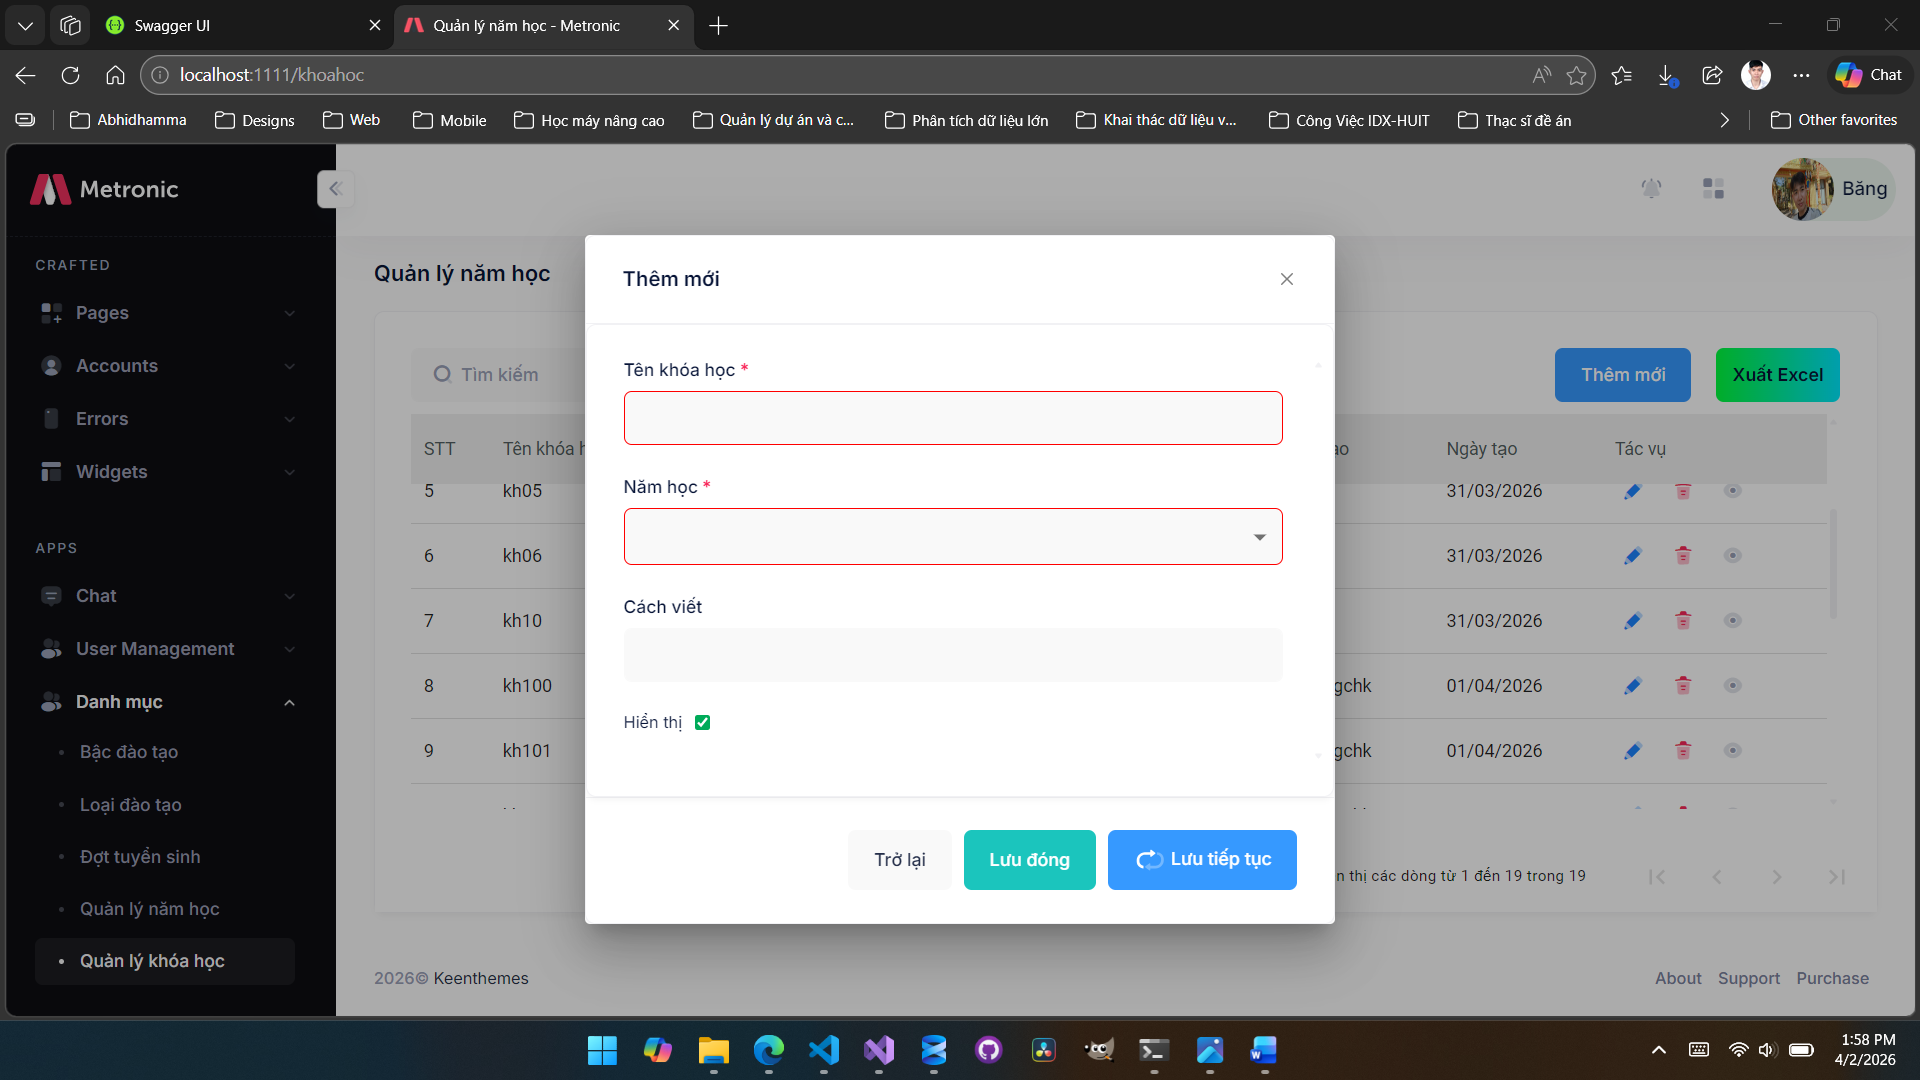
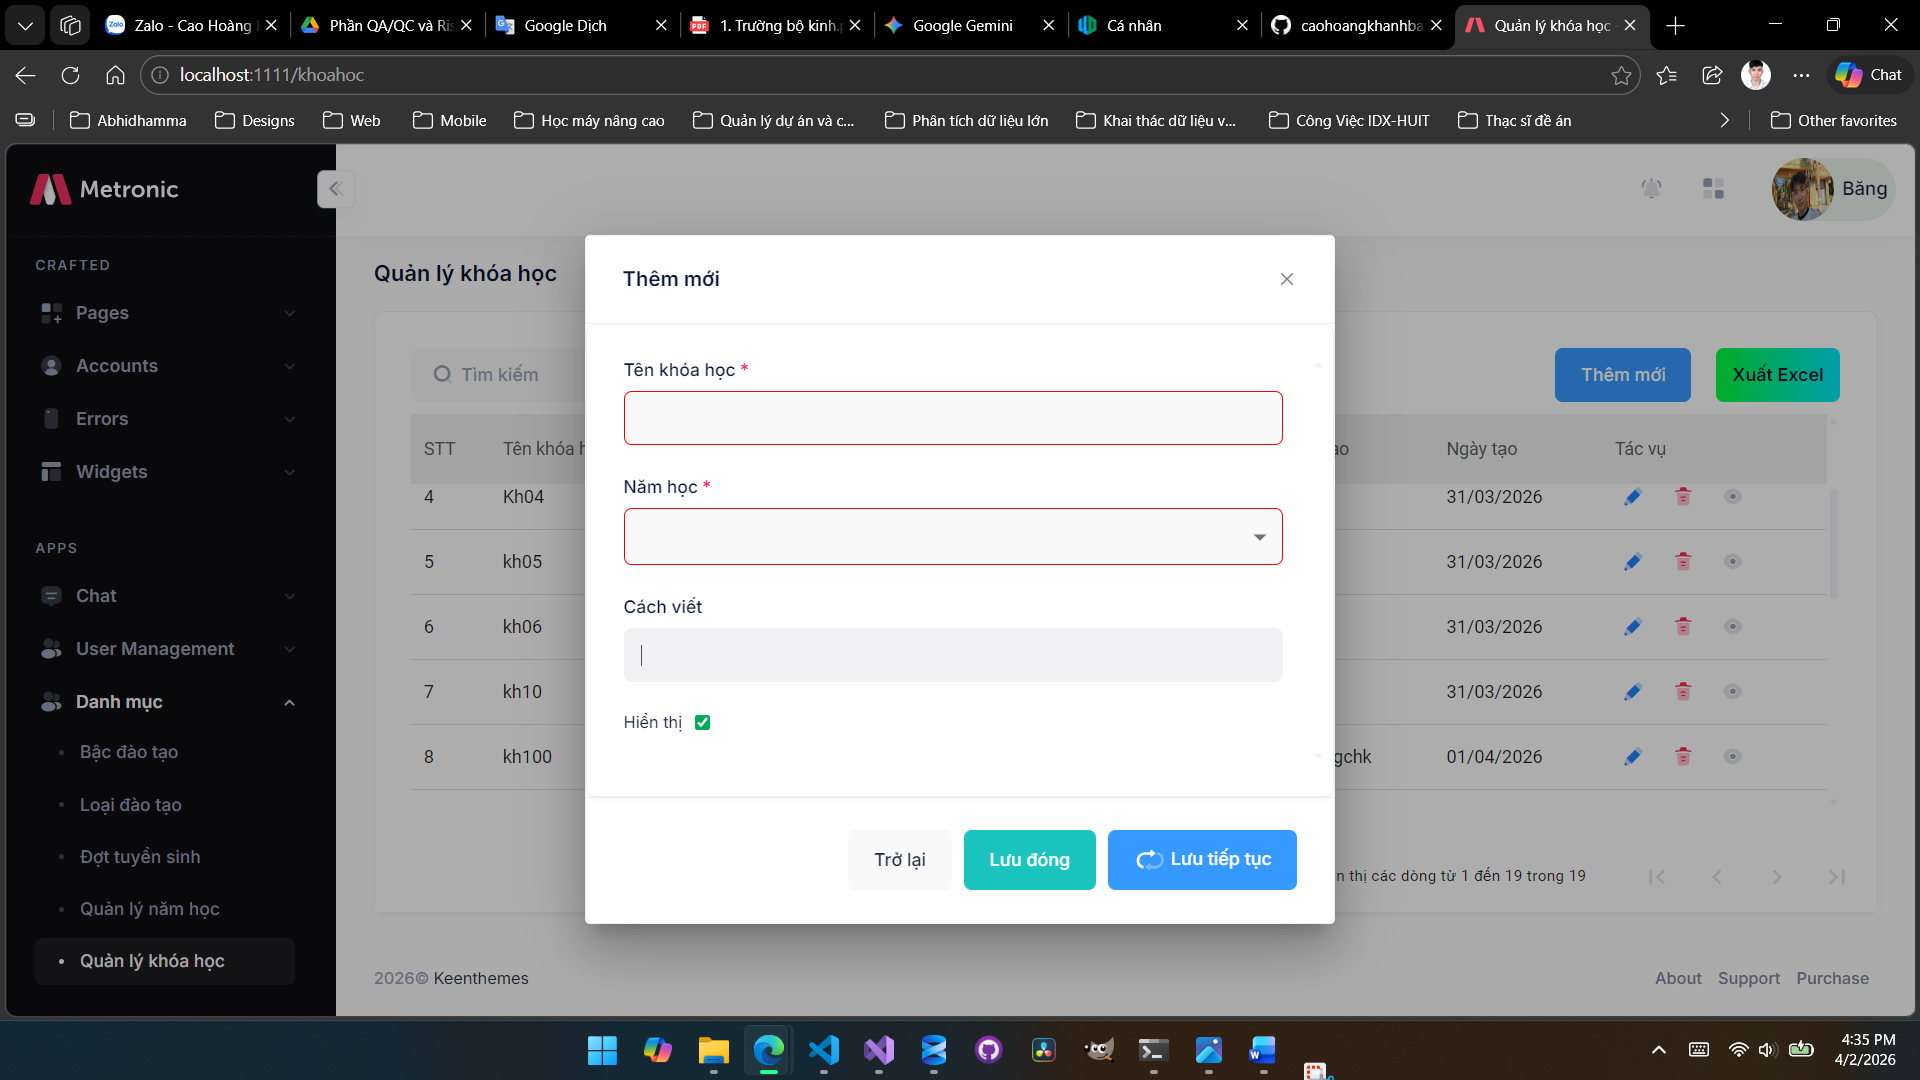
commit cuối cùng.

diff --git a/Frontend/Angular/src/app/pages/namhoc/nam-hoc-edit/nam-hoc-edit.dialog.component.ts b/Frontend/Angular/src/app/pages/namhoc/nam-hoc-edit/nam-hoc-edit.dialog.component.ts
@@ -125,7 +125,7 @@ export class NamHocEditDialogComponent implements OnInit {
         const namHoc = this.itemForm.get("NamHoc")?.value;
         if (namHoc !== null && namHoc !== undefined && namHoc !== '') {
             if (Number(namHoc) <= 0) {
-                this.NotificationCustom("Số thứ tự phải lớn hơn không!");
+                this.NotificationCustom("Năm học phải lớn hơn không!");
                 return;
             }
         }

diff --git a/SampleCodeAPI/Business/BusQLNamHoc.cs b/SampleCodeAPI/Business/BusQLNamHoc.cs
@@ -116,7 +116,7 @@ namespace SampleCodeAPI.Business
                 SqlConditions Conds = new SqlConditions();
                 string sqlq = "";
                 sqlq = $@" select * from DanhSachNamHoc
-                                  where id=@id ";
+                                  where id=@id  and isDel = 0";
                 Conds.Add("id", id);
                 DataTable dt = cnn.CreateDataTable(sqlq, Conds);
                 if (cnn.LastError != null || dt == null)

diff --git a/SampleCodeAPI/Business/BusKhoaHoc.cs b/SampleCodeAPI/Business/BusKhoaHoc.cs
@@ -111,7 +111,7 @@ namespace SampleCodeAPI.Business
                 SqlConditions Conds = new SqlConditions();
                 string sqlq = "";
                 sqlq = $@" select * from DanhSachKhoaHoc
-                                  where id=@id ";
+                                  where id=@id  isDel = 0";
                 Conds.Add("id", id);
                 DataTable dt = cnn.CreateDataTable(sqlq, Conds);
                 if (cnn.LastError != null || dt == null)

diff --git a/SampleCodeAPI/Business/BusDotTuyenSinh.cs b/SampleCodeAPI/Business/BusDotTuyenSinh.cs
@@ -139,7 +139,7 @@ namespace SampleCodeAPI.Business
                 SqlConditions Conds = new SqlConditions();
                 string sqlq = "";
                 sqlq = $@" select * from DotTuyenSinh
-                                  where id=@id ";
+                                  where id=@id  isDel = 0";
                 Conds.Add("id", id);
                 DataTable dt = cnn.CreateDataTable(sqlq, Conds);
                 if (cnn.LastError != null || dt == null)

diff --git a/SampleCodeAPI/Business/BusLoaiDaoTao.cs b/SampleCodeAPI/Business/BusLoaiDaoTao.cs
@@ -111,7 +111,7 @@ namespace SampleCodeAPI.Business
                 SqlConditions Conds = new SqlConditions();
                 string sqlq = "";
                 sqlq = $@" select * from LoaiDaoTao
-                                  where id=@id ";
+                                  where id=@id  isDel = 0";
                 Conds.Add("id", id);
                 DataTable dt = cnn.CreateDataTable(sqlq, Conds);
                 if (cnn.LastError != null || dt == null)
